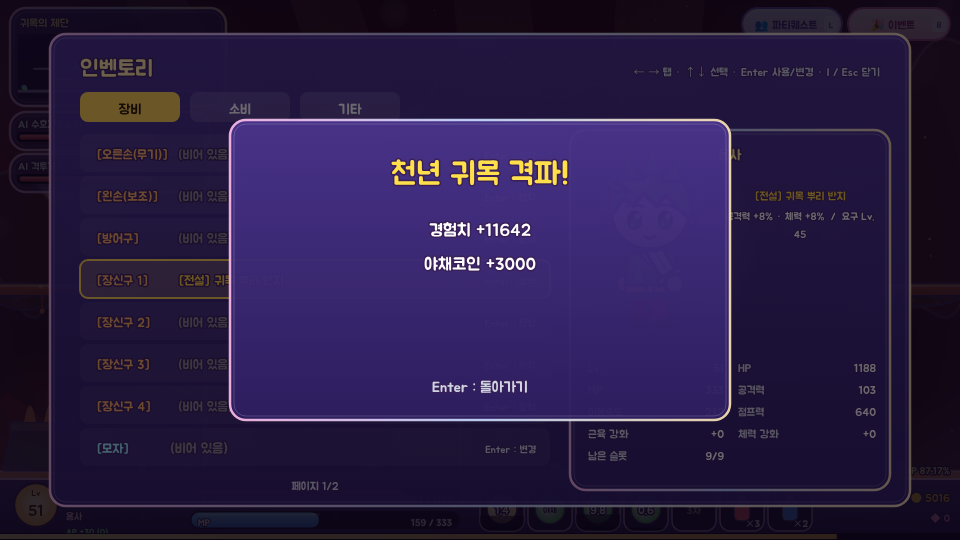
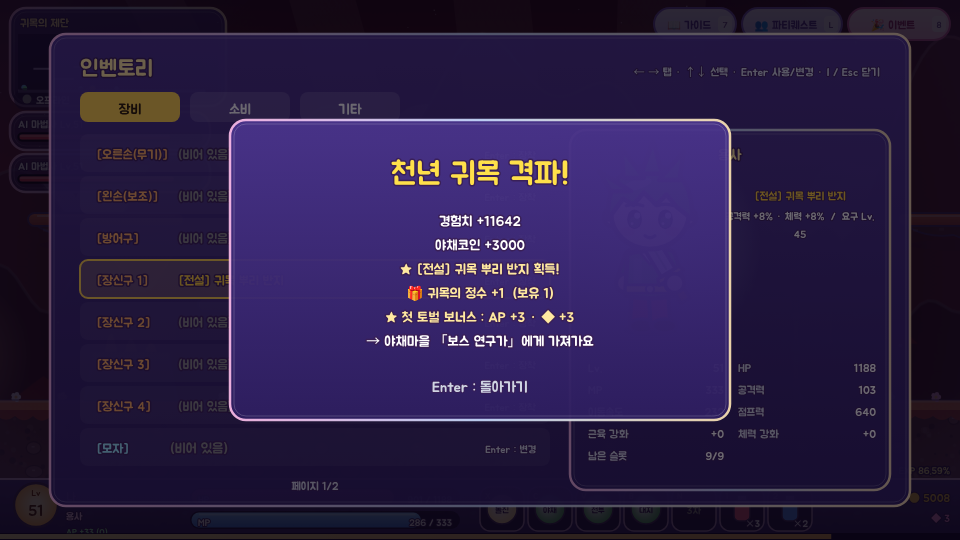
feat: 보스 전용 재료(확정)·첫 토벌 보너스·보스 연구가(반복 납품 의뢰/보스 장비 제작) · 레벨별 가이드(다음 목표·오늘 할 일·추천 사냥터 바로 이동) · 접속자 수 표시
Claude-Session: https://claude.ai/code/session_017L5bMY4jqJu3Rbzbdg4ZwK

Changed region(s): [[0.375, 0.3852, 0.625, 0.6519], [0.6562, 0.0, 0.7812, 0.0593], [0.3125, 0.9481, 0.4375, 0.9778]]

diff --git a/index.html b/index.html
@@ -2843,6 +2843,7 @@ function invRows(){
   r.push({kind:'misc',n:'귀안(鬼眼)',v:SAVE.inv.gwi||0,d:'귀목의 제단에 바쳐 천년 귀목을 소환한다. 귀문 수문장 퀘스트로만 얻을 수 있다.'});
   r.push({kind:'misc',n:'도깨비 금이빨',v:SAVE.inv.gtooth||0,d:'귀문 동굴 몬스터가 20% 확률로 떨어뜨린다. 8개로 귀안 1개.'});
   r.push({kind:'misc',n:'귀목의 정수',v:SAVE.inv.essence||0,d:'천년 귀목이 40% 확률로 남긴다. 최고급 투구 퀘스트 재료.'});
+  for(const k of BOSS_MATS)r.push({kind:'misc',n:ETC_NAME[k],v:SAVE.inv[k]||0,d:BOSS_MAT_DESC[k]});
   r.push({kind:'misc',n:'야채코인 ●',v:SAVE.coins,d:'상점 · 주문서 구매에 쓰는 기본 화폐.'});
   r.push({kind:'misc',n:'이벤트 코인 ◆',v:SAVE.ec,d:'출석 · 일일 올클리어 · PvP 승리로 획득. 이벤트 상점(캐시 치장)에서 사용.'});
   r.push({kind:'misc',n:'보유 치장템',v:Object.keys(ITEMS).filter(k=>SAVE.inv[k]).length+' / '+Object.keys(ITEMS).length,d:'착용은 장비 탭에서 슬롯을 선택(Enter).'});
@@ -3443,7 +3444,7 @@ function render(){
     else if(G.ui==='pause'){g.fillStyle='rgba(8,4,16,.6)';g.fillRect(0,0,W,H);txt(g,'메뉴 (게임은 계속 진행 중)',W/2,200,30,'#ffe9a0','center');['계속하기','저장하고 타이틀로'].forEach((s,i)=>{const y=240+i*50,sel=(G.psel||0)===i;g.fillStyle=sel?'rgba(255,220,120,.3)':'rgba(255,255,255,.08)';g.beginPath();g.roundRect(W/2-140,y,280,40,10);g.fill();txt(g,s,W/2,y+27,19,sel?'#ffe9a0':'#fff','center')})}
     if(S.pvp&&S.pvp.over){g.fillStyle='rgba(8,4,16,.55)';g.fillRect(0,0,W,H);const win=S.pvp.winner===0;txt(g,win?'승리!':'패배…',W/2,230,56,win?'#ffe04a':'#ff8a8a','center');txt(g,S.pvp.score[0]+' : '+S.pvp.score[1]+'   (전적 '+SAVE.duel.w+'승 '+SAVE.duel.l+'패)',W/2,276,22,'#fff','center');if(S.pvp.t>1.2)txt(g,'Enter : 마을로',W/2,320,20,'#cfd4e2','center',2)}
     if(G.state==='over'){g.fillStyle='rgba(20,0,10,.7)';g.fillRect(0,0,W,H);txt(g,'기절했다…',W/2,230,48,'#ff8a8a','center');txt(g,'Enter : 다시 도전      Esc : 마을로',W/2,290,20,'#fff','center')}
-    if(G.state==='clear'&&G.clear){g.fillStyle='rgba(8,4,16,.6)';g.fillRect(0,0,W,H);panel(g,W/2-250,120,500,300,.94);txt(g,G.clear.title,W/2,184,36,'#ffe04a','center');G.clear.lines.forEach((l,i)=>txt(g,l,W/2,236+i*34,20,'#fff','center'));txt(g,'Enter : 돌아가기',W/2,392,17,'#cfd4e2','center',2)}
+    if(G.state==='clear'&&G.clear){g.fillStyle='rgba(8,4,16,.6)';g.fillRect(0,0,W,H);panel(g,W/2-250,120,500,300,.94);txt(g,G.clear.title,W/2,184,36,'#ffe04a','center');G.clear.lines.forEach((l,i)=>{const n=G.clear.lines.length;txt(g,l,W/2,(n>4?226:236)+i*(n>4?24:34),n>4?16:20,l.startsWith('★')||l.startsWith('🎁')?'#ffe9a0':'#fff','center')});txt(g,'Enter : 돌아가기',W/2,392,17,'#cfd4e2','center',2)}
   }
   if(S&&G.state!=='title')drawBigBanner(g,G.t);
   if(G.fade){const a=G.fade.phase==='out'?Math.min(1,G.fade.t/.35):1-Math.min(1,G.fade.t/.4);g.fillStyle=`rgba(0,0,0,${a})`;g.fillRect(0,0,W,H)}
@@ -5565,7 +5566,7 @@ loadMap=function(id,end){if(!/^ev_/.test(id)){EVLOCAL=null;if(EVLIVE&&EVLIVE.are
 // 상단 버튼 터치/클릭
 cv.addEventListener('pointerdown',e=>{
   if(G.state!=='play'||G.ui||!S)return;const rc=cv.getBoundingClientRect(),x=(e.clientX-rc.left)*W/rc.width,y=(e.clientY-rc.top)*H/rc.height;
-  for(const b of HUDB){if(b.admin&&!ISADMIN)continue;if(x>=b.x-6&&x<=b.x+b.w+6&&y>=b.y-8&&y<=b.y+b.h+12){e.preventDefault();initAudio();b.id==='adm'?adminMenu():b.id==='pq'?pqMenu():eventMenu();return}}
+  for(const b of HUDB){if(b.admin&&!ISADMIN)continue;if(x>=b.x-6&&x<=b.x+b.w+6&&y>=b.y-8&&y<=b.y+b.h+12){e.preventDefault();initAudio();b.id==='adm'?adminMenu():b.id==='guide'?guideMenu2():b.id==='pq'?pqMenu():eventMenu();return}}
 });
 /* ============================================================
    ADMIN : 운영자(닉네임 '운영자') 전용 버튼 · 운영 패널 · 전체 공지
@@ -6171,4 +6172,137 @@ drawRoleTag=function(g,n){const r=roleOf(n);if(!r)return;const c=tagSprite(r,10,
 /* ---------- 캔버스 필터 완전 차단 : 안드로이드(갤럭시)에서 필터를 처음 쓸 때 몇 초씩 멈추는 문제 ---------- */
 {const P=CanvasRenderingContext2D.prototype,d=Object.getOwnPropertyDescriptor(P,'filter');
   if(d)Object.defineProperty(P,'filter',{configurable:true,get(){return'none'},set(){}});}
+/* ============================================================
+   BOSSLOOT : 보스 → 전용 재료(확정) → 보스 연구가의 토벌 의뢰/제작으로 이어지는 보상
+   밸런스 : 재료는 확정이라 꾸준히 잡으면 반드시 얻는다. 장비는 보스 레벨대에 맞춘 등급.
+   ============================================================ */
+Object.assign(ETC_NAME,{dhorn:'도깨비 뿔',foxtail:'구미호 꼬리털',yolk:'황금 노른자',stele:'비석 조각',fang:'거대 송곳니',festm:'축제 훈장'});
+const BOSS_MATS=['dhorn','foxtail','yolk','stele','fang','festm'];
+const BOSS_MAT_DESC={dhorn:'도깨비 대왕이 확정으로 2~3개 남긴다. 보스 연구가에게 가져가자.',foxtail:'구미호가 확정으로 2개 남긴다.',yolk:'킹 달걀 슬라임(파티퀘스트)이 확정으로 2개 남긴다.',
+  stele:'비석의 길 보스들이 2~3개 남긴다.',fang:'사냥터 필드 보스가 1~2개 남긴다.',festm:'축제 보스 레이드 참가 보상으로 2개.'};
+// 제작 장비
+Object.assign(GEAR,{
+  g_bl_horn:{slot:'acc',n:'도깨비 뿔 귀걸이',gr:2,atk:7,hp:6,req:{lv:15}},
+  g_bl_tail:{slot:'acc',n:'구미호 꼬리 목도리',gr:3,atk:10,spd:5,req:{lv:30}},
+  g_bl_yolk:{slot:'acc',n:'황금 노른자 펜던트',gr:3,atk:9,hp:12,req:{lv:25}},
+  g_bl_stele:{slot:'armor',n:'비석 수호 갑옷',gr:3,atk:8,hp:30,req:{lv:25}},
+  g_bl_fang:{slot:'acc',n:'거대 송곳니 부적',gr:3,atk:11,hp:8,req:{lv:35}},
+});
+// 보스별 확정 재료 · 의뢰(반복) · 제작
+const BOSS_LOOT={
+  dokkaebi:{mat:'dhorn',n:[2,3]},fox:{mat:'foxtail',n:[2,2]},eggking:{mat:'yolk',n:[2,2]},guimok:{mat:'essence',n:[1,1]},
+  sb1:{mat:'stele',n:[2,2]},sb2:{mat:'stele',n:[2,2]},sb3:{mat:'stele',n:[2,3]},sb4:{mat:'stele',n:[2,3]},sb5:{mat:'stele',n:[3,3]},sb6:{mat:'stele',n:[3,4]},
+};
+const BL_JOBS=[ // 반복 의뢰 : 재료 몇 개 → 경험치(현재 레벨 필요치의 %) + 코인 + ◆
+  {mat:'dhorn',n:3,pct:.05,coin:600,ec:1,t:'도깨비 뿔 3개 납품'},
+  {mat:'foxtail',n:3,pct:.06,coin:1200,ec:1,t:'구미호 꼬리털 3개 납품'},
+  {mat:'yolk',n:2,pct:.05,coin:1000,ec:1,t:'황금 노른자 2개 납품'},
+  {mat:'stele',n:4,pct:.06,coin:900,ec:1,t:'비석 조각 4개 납품'},
+  {mat:'fang',n:2,pct:.04,coin:800,ec:1,t:'거대 송곳니 2개 납품'},
+];
+const BL_CRAFT=[
+  {id:'g_bl_horn',need:{dhorn:5,vegbit:20}},
+  {id:'g_bl_yolk',need:{yolk:4,vegbit:30}},
+  {id:'g_bl_stele',need:{stele:10,vegbit:30}},
+  {id:'g_bl_tail',need:{foxtail:6,dhorn:3}},
+  {id:'g_bl_fang',need:{fang:6,vegbit:40}},
+  {id:'g_gm_ring',need:{essence:3,dhorn:5}},
+  {id:'g_rd_star',need:{festm:8}},
+];
+function addMat(k,n){SAVE.inv[k]=(SAVE.inv[k]||0)+n;qev('collect',{item:k})}
+const _bossFinishL=bossFinish;
+bossFinish=function(b){
+  _bossFinishL(b);
+  const bid=b.sid||b.id,L=BOSS_LOOT[bid];if(!L||b.raid)return;
+  const n=L.n[0]+((Math.random()*(L.n[1]-L.n[0]+1))|0);addMat(L.mat,n);
+  const first=!SAVE.flags['bfirst_'+bid];let fl=null;
+  if(first){SAVE.flags['bfirst_'+bid]=1;SAVE.apFree=(SAVE.apFree||0)+3;SAVE.ec=(SAVE.ec||0)+3;fl='★ 첫 토벌 보너스 : AP +3 · ◆ +3'}
+  saveGame();
+  if(G.clear){G.clear.lines=G.clear.lines.slice(0,4).concat(['🎁 '+ETC_NAME[L.mat]+' +'+n+'  (보유 '+SAVE.inv[L.mat]+')'],fl?[fl]:[],['→ 야채마을 「보스 연구가」에게 가져가요'])}
+};
+// 필드 보스 · 레이드
+{const _km=killMob;killMob=function(m){const fb=m.fb&&!m.dead;_km(m);if(fb&&m.dead){const n=1+(Math.random()<.4?1:0);addMat('fang',n);ftext(m.x,m.y-120,ETC_NAME.fang+' +'+n,'#ffd34a',16,1.4)}}}
+{const _bf=bossFinish;bossFinish=function(b){const raid=b.raid;_bf(b);if(raid){addMat('festm',2);saveGame();if(G.dlg)G.dlg.text=G.dlg.text.replace('참가 보상:','참가 보상: 축제 훈장 ×2 ·')}}}
+
+/* ---------- 보스 연구가 (야채마을) ---------- */
+NPC_LOOK_X.bossdoc={job:'mage',eq:{hat:'hat_gat',outfit:'out_vest'},n:'보스 연구가',fid:9};
+ROLE.bossdoc='보스 재료 · 제작';
+{const _tw=MAPS.town;MAPS.town=()=>{const L=_tw();L.npcs.push({id:'bossdoc',name:'보스 연구가 우엉',x:3560,gy:470,look:'bossdoc'});return L}}
+const matTxt=need=>Object.entries(need).map(([k,v])=>(ETC_NAME[k]||k)+' '+(SAVE.inv[k]||0)+'/'+v).join(' · ');
+const hasNeed=need=>Object.entries(need).every(([k,v])=>(SAVE.inv[k]||0)>=v);
+function bossDoc(n){
+  const opts=[];
+  opts.push({t:'📜 토벌 의뢰 (반복 납품)',fn:()=>{
+    openDialog(n.name,'보스 재료를 가져오면 연구비를 줄게! 몇 번이든 좋아.',BL_JOBS.map(j=>({t:(SAVE.inv[j.mat]>=j.n?'[완료 가능] ':'')+j.t+'  ('+(SAVE.inv[j.mat]||0)+'/'+j.n+') → 경험치 '+Math.round(j.pct*100)+'% · '+j.coin+'● · ◆'+j.ec,
+      fn:()=>{if((SAVE.inv[j.mat]||0)<j.n){G.toast('재료가 부족해요');return}SAVE.inv[j.mat]-=j.n;const ex=Math.round(need(SAVE.lvl)*j.pct);gainExp(ex);addCoins(j.coin);SAVE.ec=(SAVE.ec||0)+j.ec;saveGame();sfx('levelup');
+        openDialog(n.name,'고마워! 연구에 큰 도움이 됐어.\n경험치 +'+ex+' · '+j.coin+'● · ◆'+j.ec,[{t:'더 납품하기',fn:()=>bossDoc(n)},{t:'닫기',fn:closeUI}])}})).concat([{t:'뒤로',fn:()=>bossDoc(n)}]))}});
+  opts.push({t:'⚒ 보스 장비 제작',fn:()=>{
+    openDialog(n.name,'재료를 모아오면 보스의 힘이 깃든 장비를 만들어 줄게.',BL_CRAFT.map(c=>{const d=GEAR[c.id],own=SAVE.ginv[c.id];return{t:(own?'[보유] ':hasNeed(c.need)?'[제작 가능] ':'')+'['+GRADE[d.gr]+'] '+d.n+' — '+matTxt(c.need),
+      fn:()=>{if(own){G.toast('이미 가지고 있어요');return}if(!hasNeed(c.need)){G.toast('재료가 부족해요');return}for(const[k,v]of Object.entries(c.need))SAVE.inv[k]-=v;SAVE.ginv[c.id]=1;saveGame();sfx('levelup');
+        openDialog(n.name,'완성! ['+GRADE[d.gr]+'] '+d.n+'\n'+gearDesc(c.id)+'\n\n인벤토리(I) → 장비에서 착용해요.',[{t:'뒤로',fn:()=>bossDoc(n)},{t:'닫기',fn:closeUI}])}}}).concat([{t:'뒤로',fn:()=>bossDoc(n)}]))}});
+  opts.push({t:'어떤 보스가 무엇을 주나요?',fn:()=>openDialog(n.name,'· 도깨비 대왕 → 도깨비 뿔 2~3\n· 구미호 → 구미호 꼬리털 2\n· 킹 달걀 슬라임(파티퀘스트) → 황금 노른자 2\n· 천년 귀목 → 귀목의 정수 1 (+기존 40%)\n· 비석의 길 보스 → 비석 조각 2~4\n· 사냥터 필드 보스 → 거대 송곳니 1~2\n· 축제 보스 레이드 → 축제 훈장 2\n\n보스마다 처음 잡으면 AP +3 · ◆3 보너스!',[{t:'뒤로',fn:()=>bossDoc(n)}])});
+  opts.push({t:'닫기',fn:closeUI});
+  openDialog(n.name,'보스들이 남긴 재료를 연구하는 우엉이야.\n재료는 보스를 잡으면 반드시 떨어지니, 꾸준히 모아오면 좋은 장비를 만들어 줄게!',opts);
+}
+{const _t=talkNPC;talkNPC=function(n){if(n.id==='bossdoc'){if(!SAVE.talked.bossdoc){SAVE.talked.bossdoc=1;qev('talk',{})}return bossDoc(n)}return _t(n)}}
+/* ============================================================
+   GUIDE : 레벨별 가이드(추천 사냥터 바로 이동 · 다음 목표 · 오늘 할 일) · 접속자 수 표시
+   ============================================================ */
+function allHunts(){
+  const a=HUNTS.map(h=>({id:h.id,n:h.name,min:h.min,where:'야채마을 사냥터'}));
+  for(const d of JTOWNS)for(const h of d.hunts)a.push({id:h.id,n:h.name,min:h.min,where:d.name+(d.job===SAVE.job?' ⭐':'')});
+  for(const t of TEMPLES)a.push({id:t.id,n:t.name,min:t.min,where:'별의 신전'});
+  return a;
+}
+function recHunts(){
+  const lv=SAVE.lvl,mine=JT_OF(SAVE.job);
+  return allHunts().filter(h=>h.min<=lv&&lv<=h.min+20)
+    .sort((a,b)=>(b.min-a.min)+((b.where.includes('⭐')?6:0)-(a.where.includes('⭐')?6:0))).slice(0,5);
+}
+const guideCost=h=>SAVE.lvl<20?0:Math.round(60+h.min*5);
+function nextGoals(){
+  const lv=SAVE.lvl,t=SAVE.tier,g=[],mine=JT_OF(SAVE.job);
+  if(t<1)g.push(lv>=10?'✅ 지금 1차 전직 가능! → 「'+mine.name+'」 교관':'Lv.10 : 1차 전직 (「'+mine.name+'」)');
+  else if(t<2)g.push(lv>=30?'✅ 지금 2차 전직 가능! → 도깨비 숲 꼭대기 스승 (슈퍼점프 습득)':'Lv.30 : 2차 전직 (도깨비 숲 꼭대기) · 슈퍼점프');
+  else if(t<3)g.push(lv>=70?'✅ 지금 3차 전직 가능! → 하늘길 끝 스승':'Lv.70 : 3차 전직 (하늘길 끝)');
+  if(lv>=6&&!SAVE.cleared.eggking)g.push('👥 파티퀘스트 「달걀 슬라임 소굴」 (Lv.6+) — 황금 노른자');
+  if(lv>=12&&!SAVE.cleared.dokkaebi)g.push('👹 보스 「도깨비 대왕」 — 도깨비 숲 끝 · 첫 토벌 AP+3');
+  if(lv>=28&&!SAVE.cleared.fox)g.push('🦊 보스 「구미호」 — 하늘길 끝 달빛 신당');
+  if(lv>=15)g.push('🪨 비석의 길 스토리 던전 — 비석 조각 · 보스 장비 제작');
+  if(lv>=40&&!SAVE.cleared.guimok)g.push('🌋 귀문 동굴 → 천년 귀목 (파티 추천)');
+  if(lv>=80)g.push('🏛 별의 신전 (Lv.80~90) — 최고 레벨 사냥터');
+  return g.slice(0,3);
+}
+function todayList(){
+  const r=[];const dq=Object.keys(QUESTS).filter(k=>/^d\d/.test(k));
+  const done=dq.filter(k=>qst(k).s==='done').length;r.push('📅 일일 퀘스트 '+done+'/'+dq.length);
+  r.push(SAVE.att&&SAVE.att.last===dayNum()?'✅ 출석 체크 완료':'❗ 출석 체크 안 함 (야채마을 출석부 요정)');
+  r.push('🐉 20:00 보스 레이드 · 🏛 20:30 쟁탈전');
+  const ready=BL_JOBS.filter(j=>(SAVE.inv[j.mat]||0)>=j.n).length;if(ready)r.push('🎁 보스 연구가에게 납품 가능 '+ready+'건');
+  if(SAVE.apFree>0)r.push('💪 남은 AP '+SAVE.apFree+' (AP 버튼 / O키)');
+  return r;
+}
+function guideMenu2(){
+  sfx('sel');const j=JOB[SAVE.job],rec=recHunts(),opts=[];
+  for(const h of rec){const c=guideCost(h);opts.push({t:'🚕 '+(h.where.includes('⭐')?'⭐':'')+h.n+'  Lv.'+h.min+'~  '+(c?c+'●':'무료'),fn:()=>{
+    if(S.L.pq||(S.boss&&!S.boss.dead)||S.dg||S.L.raid||S.L.arenaEv){G.toast('던전 안에서는 이동할 수 없어요');return}
+    if(SAVE.coins<c){G.toast('코인이 부족해요 ('+c+'●)');return}SAVE.coins-=c;closeUI();sfx('portal');goMap(h.id);G.toast(h.n+'(으)로 이동!')}})}
+  opts.push({t:'⭐ 내 직업 마을 「'+JT_OF(SAVE.job).name+'」 (무료)',fn:()=>{closeUI();sfx('portal');goMap(JT_OF(SAVE.job).id)}});
+  opts.push({t:'닫기',fn:closeUI});
+  openDialog('📖 Lv.'+SAVE.lvl+' '+jline(j,SAVE.tier)+' 가이드',
+    '▶ 다음 목표\n'+nextGoals().map(s=>'  '+s).join('\n')+'\n\n▶ 오늘 할 일\n  '+todayList().slice(0,2).join('   ')+'\n  '+todayList().slice(2).join('   ')+'\n\n▶ 오른쪽에서 추천 사냥터로 바로 이동'+(SAVE.lvl<20?' (Lv.20까지 무료)':''),opts);
+}
+// 상단 버튼 : 가이드 추가 (운영 버튼은 왼쪽으로)
+{const a=HUDB.find(b=>b.id==='adm');if(a)a.x=W-394;HUDB.push({id:'guide',x:W-306,y:8,w:82,h:32,l:'📖 가이드',k:'7'})}
+{const _rs=respawnStep;respawnStep=function(dt){_rs(dt);if(G.state==='play'&&!G.ui&&!G.chatOpen&&pressed.Digit7)guideMenu2()}}
+// 레벨업 할 때 중요한 레벨이면 안내
+{const _ge=gainExp;gainExp=function(n,mob){const lv=SAVE.lvl;const r=_ge(n,mob);if(SAVE.lvl>lv&&[6,10,12,15,20,30,40,70,80].some(v=>lv<v&&SAVE.lvl>=v))setTimeout(()=>G.toast('📖 새 목표가 생겼어요! 오른쪽 위 [가이드] (7)'),1200);return r}}
+// 접속자 수 (미니맵 아래)
+function drawOnline(g,t){
+  if(!S||!PARTY[0])return;const on=typeof wsOK==='function'&&wsOK(),s=on?'접속 '+Math.max(1,ONLINE_N)+'명':'오프라인';
+  g.save();g.beginPath();g.roundRect(14,88,on?96:80,22,11);g.fillStyle='rgba(40,24,70,.62)';g.fill();
+  circ(g,27,99,4.5,on?'#5ae07a':'#999');if(on){g.globalAlpha=.4+.3*Math.sin(t*3);circ(g,27,99,8,'rgba(90,224,122,.5)');g.globalAlpha=1}
+  txt(g,s,36,104,12,'#fff','left',0);g.restore();
+}
+{const _dh=drawHUD;drawHUD=function(g,t){_dh(g,t);drawOnline(g,t)}}
 </script></body></html>

diff --git a/parts/28_bossloot.js b/parts/28_bossloot.js
@@ -1,0 +1,73 @@
+/* ============================================================
+   BOSSLOOT : 보스 → 전용 재료(확정) → 보스 연구가의 토벌 의뢰/제작으로 이어지는 보상
+   밸런스 : 재료는 확정이라 꾸준히 잡으면 반드시 얻는다. 장비는 보스 레벨대에 맞춘 등급.
+   ============================================================ */
+Object.assign(ETC_NAME,{dhorn:'도깨비 뿔',foxtail:'구미호 꼬리털',yolk:'황금 노른자',stele:'비석 조각',fang:'거대 송곳니',festm:'축제 훈장'});
+const BOSS_MATS=['dhorn','foxtail','yolk','stele','fang','festm'];
+const BOSS_MAT_DESC={dhorn:'도깨비 대왕이 확정으로 2~3개 남긴다. 보스 연구가에게 가져가자.',foxtail:'구미호가 확정으로 2개 남긴다.',yolk:'킹 달걀 슬라임(파티퀘스트)이 확정으로 2개 남긴다.',
+  stele:'비석의 길 보스들이 2~3개 남긴다.',fang:'사냥터 필드 보스가 1~2개 남긴다.',festm:'축제 보스 레이드 참가 보상으로 2개.'};
+// 제작 장비
+Object.assign(GEAR,{
+  g_bl_horn:{slot:'acc',n:'도깨비 뿔 귀걸이',gr:2,atk:7,hp:6,req:{lv:15}},
+  g_bl_tail:{slot:'acc',n:'구미호 꼬리 목도리',gr:3,atk:10,spd:5,req:{lv:30}},
+  g_bl_yolk:{slot:'acc',n:'황금 노른자 펜던트',gr:3,atk:9,hp:12,req:{lv:25}},
+  g_bl_stele:{slot:'armor',n:'비석 수호 갑옷',gr:3,atk:8,hp:30,req:{lv:25}},
+  g_bl_fang:{slot:'acc',n:'거대 송곳니 부적',gr:3,atk:11,hp:8,req:{lv:35}},
+});
+// 보스별 확정 재료 · 의뢰(반복) · 제작
+const BOSS_LOOT={
+  dokkaebi:{mat:'dhorn',n:[2,3]},fox:{mat:'foxtail',n:[2,2]},eggking:{mat:'yolk',n:[2,2]},guimok:{mat:'essence',n:[1,1]},
+  sb1:{mat:'stele',n:[2,2]},sb2:{mat:'stele',n:[2,2]},sb3:{mat:'stele',n:[2,3]},sb4:{mat:'stele',n:[2,3]},sb5:{mat:'stele',n:[3,3]},sb6:{mat:'stele',n:[3,4]},
+};
+const BL_JOBS=[ // 반복 의뢰 : 재료 몇 개 → 경험치(현재 레벨 필요치의 %) + 코인 + ◆
+  {mat:'dhorn',n:3,pct:.05,coin:600,ec:1,t:'도깨비 뿔 3개 납품'},
+  {mat:'foxtail',n:3,pct:.06,coin:1200,ec:1,t:'구미호 꼬리털 3개 납품'},
+  {mat:'yolk',n:2,pct:.05,coin:1000,ec:1,t:'황금 노른자 2개 납품'},
+  {mat:'stele',n:4,pct:.06,coin:900,ec:1,t:'비석 조각 4개 납품'},
+  {mat:'fang',n:2,pct:.04,coin:800,ec:1,t:'거대 송곳니 2개 납품'},
+];
+const BL_CRAFT=[
+  {id:'g_bl_horn',need:{dhorn:5,vegbit:20}},
+  {id:'g_bl_yolk',need:{yolk:4,vegbit:30}},
+  {id:'g_bl_stele',need:{stele:10,vegbit:30}},
+  {id:'g_bl_tail',need:{foxtail:6,dhorn:3}},
+  {id:'g_bl_fang',need:{fang:6,vegbit:40}},
+  {id:'g_gm_ring',need:{essence:3,dhorn:5}},
+  {id:'g_rd_star',need:{festm:8}},
+];
+function addMat(k,n){SAVE.inv[k]=(SAVE.inv[k]||0)+n;qev('collect',{item:k})}
+const _bossFinishL=bossFinish;
+bossFinish=function(b){
+  _bossFinishL(b);
+  const bid=b.sid||b.id,L=BOSS_LOOT[bid];if(!L||b.raid)return;
+  const n=L.n[0]+((Math.random()*(L.n[1]-L.n[0]+1))|0);addMat(L.mat,n);
+  const first=!SAVE.flags['bfirst_'+bid];let fl=null;
+  if(first){SAVE.flags['bfirst_'+bid]=1;SAVE.apFree=(SAVE.apFree||0)+3;SAVE.ec=(SAVE.ec||0)+3;fl='★ 첫 토벌 보너스 : AP +3 · ◆ +3'}
+  saveGame();
+  if(G.clear){G.clear.lines=G.clear.lines.slice(0,4).concat(['🎁 '+ETC_NAME[L.mat]+' +'+n+'  (보유 '+SAVE.inv[L.mat]+')'],fl?[fl]:[],['→ 야채마을 「보스 연구가」에게 가져가요'])}
+};
+// 필드 보스 · 레이드
+{const _km=killMob;killMob=function(m){const fb=m.fb&&!m.dead;_km(m);if(fb&&m.dead){const n=1+(Math.random()<.4?1:0);addMat('fang',n);ftext(m.x,m.y-120,ETC_NAME.fang+' +'+n,'#ffd34a',16,1.4)}}}
+{const _bf=bossFinish;bossFinish=function(b){const raid=b.raid;_bf(b);if(raid){addMat('festm',2);saveGame();if(G.dlg)G.dlg.text=G.dlg.text.replace('참가 보상:','참가 보상: 축제 훈장 ×2 ·')}}}
+
+/* ---------- 보스 연구가 (야채마을) ---------- */
+NPC_LOOK_X.bossdoc={job:'mage',eq:{hat:'hat_gat',outfit:'out_vest'},n:'보스 연구가',fid:9};
+ROLE.bossdoc='보스 재료 · 제작';
+{const _tw=MAPS.town;MAPS.town=()=>{const L=_tw();L.npcs.push({id:'bossdoc',name:'보스 연구가 우엉',x:3560,gy:470,look:'bossdoc'});return L}}
+const matTxt=need=>Object.entries(need).map(([k,v])=>(ETC_NAME[k]||k)+' '+(SAVE.inv[k]||0)+'/'+v).join(' · ');
+const hasNeed=need=>Object.entries(need).every(([k,v])=>(SAVE.inv[k]||0)>=v);
+function bossDoc(n){
+  const opts=[];
+  opts.push({t:'📜 토벌 의뢰 (반복 납품)',fn:()=>{
+    openDialog(n.name,'보스 재료를 가져오면 연구비를 줄게! 몇 번이든 좋아.',BL_JOBS.map(j=>({t:(SAVE.inv[j.mat]>=j.n?'[완료 가능] ':'')+j.t+'  ('+(SAVE.inv[j.mat]||0)+'/'+j.n+') → 경험치 '+Math.round(j.pct*100)+'% · '+j.coin+'● · ◆'+j.ec,
+      fn:()=>{if((SAVE.inv[j.mat]||0)<j.n){G.toast('재료가 부족해요');return}SAVE.inv[j.mat]-=j.n;const ex=Math.round(need(SAVE.lvl)*j.pct);gainExp(ex);addCoins(j.coin);SAVE.ec=(SAVE.ec||0)+j.ec;saveGame();sfx('levelup');
+        openDialog(n.name,'고마워! 연구에 큰 도움이 됐어.\n경험치 +'+ex+' · '+j.coin+'● · ◆'+j.ec,[{t:'더 납품하기',fn:()=>bossDoc(n)},{t:'닫기',fn:closeUI}])}})).concat([{t:'뒤로',fn:()=>bossDoc(n)}]))}});
+  opts.push({t:'⚒ 보스 장비 제작',fn:()=>{
+    openDialog(n.name,'재료를 모아오면 보스의 힘이 깃든 장비를 만들어 줄게.',BL_CRAFT.map(c=>{const d=GEAR[c.id],own=SAVE.ginv[c.id];return{t:(own?'[보유] ':hasNeed(c.need)?'[제작 가능] ':'')+'['+GRADE[d.gr]+'] '+d.n+' — '+matTxt(c.need),
+      fn:()=>{if(own){G.toast('이미 가지고 있어요');return}if(!hasNeed(c.need)){G.toast('재료가 부족해요');return}for(const[k,v]of Object.entries(c.need))SAVE.inv[k]-=v;SAVE.ginv[c.id]=1;saveGame();sfx('levelup');
+        openDialog(n.name,'완성! ['+GRADE[d.gr]+'] '+d.n+'\n'+gearDesc(c.id)+'\n\n인벤토리(I) → 장비에서 착용해요.',[{t:'뒤로',fn:()=>bossDoc(n)},{t:'닫기',fn:closeUI}])}}}).concat([{t:'뒤로',fn:()=>bossDoc(n)}]))}});
+  opts.push({t:'어떤 보스가 무엇을 주나요?',fn:()=>openDialog(n.name,'· 도깨비 대왕 → 도깨비 뿔 2~3\n· 구미호 → 구미호 꼬리털 2\n· 킹 달걀 슬라임(파티퀘스트) → 황금 노른자 2\n· 천년 귀목 → 귀목의 정수 1 (+기존 40%)\n· 비석의 길 보스 → 비석 조각 2~4\n· 사냥터 필드 보스 → 거대 송곳니 1~2\n· 축제 보스 레이드 → 축제 훈장 2\n\n보스마다 처음 잡으면 AP +3 · ◆3 보너스!',[{t:'뒤로',fn:()=>bossDoc(n)}])});
+  opts.push({t:'닫기',fn:closeUI});
+  openDialog(n.name,'보스들이 남긴 재료를 연구하는 우엉이야.\n재료는 보스를 잡으면 반드시 떨어지니, 꾸준히 모아오면 좋은 장비를 만들어 줄게!',opts);
+}
+{const _t=talkNPC;talkNPC=function(n){if(n.id==='bossdoc'){if(!SAVE.talked.bossdoc){SAVE.talked.bossdoc=1;qev('talk',{})}return bossDoc(n)}return _t(n)}}

diff --git a/parts/29_guide.js b/parts/29_guide.js
@@ -1,0 +1,60 @@
+/* ============================================================
+   GUIDE : 레벨별 가이드(추천 사냥터 바로 이동 · 다음 목표 · 오늘 할 일) · 접속자 수 표시
+   ============================================================ */
+function allHunts(){
+  const a=HUNTS.map(h=>({id:h.id,n:h.name,min:h.min,where:'야채마을 사냥터'}));
+  for(const d of JTOWNS)for(const h of d.hunts)a.push({id:h.id,n:h.name,min:h.min,where:d.name+(d.job===SAVE.job?' ⭐':'')});
+  for(const t of TEMPLES)a.push({id:t.id,n:t.name,min:t.min,where:'별의 신전'});
+  return a;
+}
+function recHunts(){
+  const lv=SAVE.lvl,mine=JT_OF(SAVE.job);
+  return allHunts().filter(h=>h.min<=lv&&lv<=h.min+20)
+    .sort((a,b)=>(b.min-a.min)+((b.where.includes('⭐')?6:0)-(a.where.includes('⭐')?6:0))).slice(0,5);
+}
+const guideCost=h=>SAVE.lvl<20?0:Math.round(60+h.min*5);
+function nextGoals(){
+  const lv=SAVE.lvl,t=SAVE.tier,g=[],mine=JT_OF(SAVE.job);
+  if(t<1)g.push(lv>=10?'✅ 지금 1차 전직 가능! → 「'+mine.name+'」 교관':'Lv.10 : 1차 전직 (「'+mine.name+'」)');
+  else if(t<2)g.push(lv>=30?'✅ 지금 2차 전직 가능! → 도깨비 숲 꼭대기 스승 (슈퍼점프 습득)':'Lv.30 : 2차 전직 (도깨비 숲 꼭대기) · 슈퍼점프');
+  else if(t<3)g.push(lv>=70?'✅ 지금 3차 전직 가능! → 하늘길 끝 스승':'Lv.70 : 3차 전직 (하늘길 끝)');
+  if(lv>=6&&!SAVE.cleared.eggking)g.push('👥 파티퀘스트 「달걀 슬라임 소굴」 (Lv.6+) — 황금 노른자');
+  if(lv>=12&&!SAVE.cleared.dokkaebi)g.push('👹 보스 「도깨비 대왕」 — 도깨비 숲 끝 · 첫 토벌 AP+3');
+  if(lv>=28&&!SAVE.cleared.fox)g.push('🦊 보스 「구미호」 — 하늘길 끝 달빛 신당');
+  if(lv>=15)g.push('🪨 비석의 길 스토리 던전 — 비석 조각 · 보스 장비 제작');
+  if(lv>=40&&!SAVE.cleared.guimok)g.push('🌋 귀문 동굴 → 천년 귀목 (파티 추천)');
+  if(lv>=80)g.push('🏛 별의 신전 (Lv.80~90) — 최고 레벨 사냥터');
+  return g.slice(0,3);
+}
+function todayList(){
+  const r=[];const dq=Object.keys(QUESTS).filter(k=>/^d\d/.test(k));
+  const done=dq.filter(k=>qst(k).s==='done').length;r.push('📅 일일 퀘스트 '+done+'/'+dq.length);
+  r.push(SAVE.att&&SAVE.att.last===dayNum()?'✅ 출석 체크 완료':'❗ 출석 체크 안 함 (야채마을 출석부 요정)');
+  r.push('🐉 20:00 보스 레이드 · 🏛 20:30 쟁탈전');
+  const ready=BL_JOBS.filter(j=>(SAVE.inv[j.mat]||0)>=j.n).length;if(ready)r.push('🎁 보스 연구가에게 납품 가능 '+ready+'건');
+  if(SAVE.apFree>0)r.push('💪 남은 AP '+SAVE.apFree+' (AP 버튼 / O키)');
+  return r;
+}
+function guideMenu2(){
+  sfx('sel');const j=JOB[SAVE.job],rec=recHunts(),opts=[];
+  for(const h of rec){const c=guideCost(h);opts.push({t:'🚕 '+(h.where.includes('⭐')?'⭐':'')+h.n+'  Lv.'+h.min+'~  '+(c?c+'●':'무료'),fn:()=>{
+    if(S.L.pq||(S.boss&&!S.boss.dead)||S.dg||S.L.raid||S.L.arenaEv){G.toast('던전 안에서는 이동할 수 없어요');return}
+    if(SAVE.coins<c){G.toast('코인이 부족해요 ('+c+'●)');return}SAVE.coins-=c;closeUI();sfx('portal');goMap(h.id);G.toast(h.n+'(으)로 이동!')}})}
+  opts.push({t:'⭐ 내 직업 마을 「'+JT_OF(SAVE.job).name+'」 (무료)',fn:()=>{closeUI();sfx('portal');goMap(JT_OF(SAVE.job).id)}});
+  opts.push({t:'닫기',fn:closeUI});
+  openDialog('📖 Lv.'+SAVE.lvl+' '+jline(j,SAVE.tier)+' 가이드',
+    '▶ 다음 목표\n'+nextGoals().map(s=>'  '+s).join('\n')+'\n\n▶ 오늘 할 일\n  '+todayList().slice(0,2).join('   ')+'\n  '+todayList().slice(2).join('   ')+'\n\n▶ 오른쪽에서 추천 사냥터로 바로 이동'+(SAVE.lvl<20?' (Lv.20까지 무료)':''),opts);
+}
+// 상단 버튼 : 가이드 추가 (운영 버튼은 왼쪽으로)
+{const a=HUDB.find(b=>b.id==='adm');if(a)a.x=W-394;HUDB.push({id:'guide',x:W-306,y:8,w:82,h:32,l:'📖 가이드',k:'7'})}
+{const _rs=respawnStep;respawnStep=function(dt){_rs(dt);if(G.state==='play'&&!G.ui&&!G.chatOpen&&pressed.Digit7)guideMenu2()}}
+// 레벨업 할 때 중요한 레벨이면 안내
+{const _ge=gainExp;gainExp=function(n,mob){const lv=SAVE.lvl;const r=_ge(n,mob);if(SAVE.lvl>lv&&[6,10,12,15,20,30,40,70,80].some(v=>lv<v&&SAVE.lvl>=v))setTimeout(()=>G.toast('📖 새 목표가 생겼어요! 오른쪽 위 [가이드] (7)'),1200);return r}}
+// 접속자 수 (미니맵 아래)
+function drawOnline(g,t){
+  if(!S||!PARTY[0])return;const on=typeof wsOK==='function'&&wsOK(),s=on?'접속 '+Math.max(1,ONLINE_N)+'명':'오프라인';
+  g.save();g.beginPath();g.roundRect(14,88,on?96:80,22,11);g.fillStyle='rgba(40,24,70,.62)';g.fill();
+  circ(g,27,99,4.5,on?'#5ae07a':'#999');if(on){g.globalAlpha=.4+.3*Math.sin(t*3);circ(g,27,99,8,'rgba(90,224,122,.5)');g.globalAlpha=1}
+  txt(g,s,36,104,12,'#fff','left',0);g.restore();
+}
+{const _dh=drawHUD;drawHUD=function(g,t){_dh(g,t);drawOnline(g,t)}}

diff --git a/parts/09_main.js b/parts/09_main.js
@@ -392,7 +392,7 @@ function render(){
     else if(G.ui==='pause'){g.fillStyle='rgba(8,4,16,.6)';g.fillRect(0,0,W,H);txt(g,'메뉴 (게임은 계속 진행 중)',W/2,200,30,'#ffe9a0','center');['계속하기','저장하고 타이틀로'].forEach((s,i)=>{const y=240+i*50,sel=(G.psel||0)===i;g.fillStyle=sel?'rgba(255,220,120,.3)':'rgba(255,255,255,.08)';g.beginPath();g.roundRect(W/2-140,y,280,40,10);g.fill();txt(g,s,W/2,y+27,19,sel?'#ffe9a0':'#fff','center')})}
     if(S.pvp&&S.pvp.over){g.fillStyle='rgba(8,4,16,.55)';g.fillRect(0,0,W,H);const win=S.pvp.winner===0;txt(g,win?'승리!':'패배…',W/2,230,56,win?'#ffe04a':'#ff8a8a','center');txt(g,S.pvp.score[0]+' : '+S.pvp.score[1]+'   (전적 '+SAVE.duel.w+'승 '+SAVE.duel.l+'패)',W/2,276,22,'#fff','center');if(S.pvp.t>1.2)txt(g,'Enter : 마을로',W/2,320,20,'#cfd4e2','center',2)}
     if(G.state==='over'){g.fillStyle='rgba(20,0,10,.7)';g.fillRect(0,0,W,H);txt(g,'기절했다…',W/2,230,48,'#ff8a8a','center');txt(g,'Enter : 다시 도전      Esc : 마을로',W/2,290,20,'#fff','center')}
-    if(G.state==='clear'&&G.clear){g.fillStyle='rgba(8,4,16,.6)';g.fillRect(0,0,W,H);panel(g,W/2-250,120,500,300,.94);txt(g,G.clear.title,W/2,184,36,'#ffe04a','center');G.clear.lines.forEach((l,i)=>txt(g,l,W/2,236+i*34,20,'#fff','center'));txt(g,'Enter : 돌아가기',W/2,392,17,'#cfd4e2','center',2)}
+    if(G.state==='clear'&&G.clear){g.fillStyle='rgba(8,4,16,.6)';g.fillRect(0,0,W,H);panel(g,W/2-250,120,500,300,.94);txt(g,G.clear.title,W/2,184,36,'#ffe04a','center');G.clear.lines.forEach((l,i)=>{const n=G.clear.lines.length;txt(g,l,W/2,(n>4?226:236)+i*(n>4?24:34),n>4?16:20,l.startsWith('★')||l.startsWith('🎁')?'#ffe9a0':'#fff','center')});txt(g,'Enter : 돌아가기',W/2,392,17,'#cfd4e2','center',2)}
   }
   if(S&&G.state!=='title')drawBigBanner(g,G.t);
   if(G.fade){const a=G.fade.phase==='out'?Math.min(1,G.fade.t/.35):1-Math.min(1,G.fade.t/.4);g.fillStyle=`rgba(0,0,0,${a})`;g.fillRect(0,0,W,H)}

diff --git a/parts/08_ui.js b/parts/08_ui.js
@@ -379,6 +379,7 @@ function invRows(){
   r.push({kind:'misc',n:'귀안(鬼眼)',v:SAVE.inv.gwi||0,d:'귀목의 제단에 바쳐 천년 귀목을 소환한다. 귀문 수문장 퀘스트로만 얻을 수 있다.'});
   r.push({kind:'misc',n:'도깨비 금이빨',v:SAVE.inv.gtooth||0,d:'귀문 동굴 몬스터가 20% 확률로 떨어뜨린다. 8개로 귀안 1개.'});
   r.push({kind:'misc',n:'귀목의 정수',v:SAVE.inv.essence||0,d:'천년 귀목이 40% 확률로 남긴다. 최고급 투구 퀘스트 재료.'});
+  for(const k of BOSS_MATS)r.push({kind:'misc',n:ETC_NAME[k],v:SAVE.inv[k]||0,d:BOSS_MAT_DESC[k]});
   r.push({kind:'misc',n:'야채코인 ●',v:SAVE.coins,d:'상점 · 주문서 구매에 쓰는 기본 화폐.'});
   r.push({kind:'misc',n:'이벤트 코인 ◆',v:SAVE.ec,d:'출석 · 일일 올클리어 · PvP 승리로 획득. 이벤트 상점(캐시 치장)에서 사용.'});
   r.push({kind:'misc',n:'보유 치장템',v:Object.keys(ITEMS).filter(k=>SAVE.inv[k]).length+' / '+Object.keys(ITEMS).length,d:'착용은 장비 탭에서 슬롯을 선택(Enter).'});

diff --git a/parts/20_events.js b/parts/20_events.js
@@ -312,5 +312,5 @@ loadMap=function(id,end){if(!/^ev_/.test(id)){EVLOCAL=null;if(EVLIVE&&EVLIVE.are
 // 상단 버튼 터치/클릭
 cv.addEventListener('pointerdown',e=>{
   if(G.state!=='play'||G.ui||!S)return;const rc=cv.getBoundingClientRect(),x=(e.clientX-rc.left)*W/rc.width,y=(e.clientY-rc.top)*H/rc.height;
-  for(const b of HUDB){if(b.admin&&!ISADMIN)continue;if(x>=b.x-6&&x<=b.x+b.w+6&&y>=b.y-8&&y<=b.y+b.h+12){e.preventDefault();initAudio();b.id==='adm'?adminMenu():b.id==='pq'?pqMenu():eventMenu();return}}
+  for(const b of HUDB){if(b.admin&&!ISADMIN)continue;if(x>=b.x-6&&x<=b.x+b.w+6&&y>=b.y-8&&y<=b.y+b.h+12){e.preventDefault();initAudio();b.id==='adm'?adminMenu():b.id==='guide'?guideMenu2():b.id==='pq'?pqMenu():eventMenu();return}}
 });

diff --git a/tests/test_bossloot.py b/tests/test_bossloot.py
@@ -1,0 +1,20 @@
+import asyncio, os
+from playwright.async_api import async_playwright
+async def main():
+    async with async_playwright() as p:
+        kw=dict(args=['--no-sandbox','--use-gl=swiftshader'])
+        if os.path.exists('/usr/bin/google-chrome'): kw['executable_path']='/usr/bin/google-chrome'
+        b=await p.chromium.launch(**kw); errs=[]
+        pg=await b.new_page(viewport={'width':960,'height':540}); pg.on('pageerror',lambda e: errs.append(str(e)))
+        await pg.goto('file://'+os.path.abspath('index.html')); await pg.wait_for_timeout(300)
+        print('boss',await pg.evaluate("""()=>{const g=__game;g.newGame('warrior');SAVE.lvl=20;g.goMap('boss1',true);const bo=S.boss;const ap=SAVE.apFree||0;bossFinish(bo);
+          return [bo.id,SAVE.inv.dhorn,(SAVE.apFree||0)-ap,G.clear.lines]}"""))
+        await pg.wait_for_timeout(100); await pg.screenshot(path='/tmp/bl_clear.png')
+        print('second',await pg.evaluate("""()=>{const g=__game;G.state='play';g.goMap('boss1',true);const ap=SAVE.apFree;bossFinish(S.boss);return [SAVE.inv.dhorn,SAVE.apFree-ap]}"""))
+        print('doc',await pg.evaluate("""()=>{const g=__game;G.state='play';G.clear=null;g.goMap('town',true);const n=S.L.npcs.find(n=>n.id==='bossdoc');talkNPC(n);G.dlg.opts[0].fn();const t=G.dlg.opts[0].t;const e0=SAVE.exp,c0=SAVE.coins;G.dlg.opts[0].fn();
+          const r=[t,SAVE.inv.dhorn,SAVE.coins-c0];closeUI();SAVE.inv.dhorn=5;SAVE.inv.vegbit=20;talkNPC(n);G.dlg.opts[1].fn();G.dlg.opts[0].fn();r.push(!!SAVE.ginv.g_bl_horn,SAVE.inv.dhorn,SAVE.inv.vegbit);return r}"""))
+        print('fieldboss fang',await pg.evaluate("""()=>{const g=__game;closeUI();g.goMap('h3',true);S.fbT=.01;g.step(1/60);g.step(1/60);const m=S.fb;const f=SAVE.inv.fang||0;killMob(m);return (SAVE.inv.fang||0)-f}"""))
+        await pg.evaluate("(()=>{const g=__game;g.goMap('town',true);G.banner.t=9;G.toasts.length=0;PARTY[0].x=3460;for(let i=0;i<20;i++)g.step(1/60)})()"); await pg.wait_for_timeout(200)
+        await pg.screenshot(path='/tmp/bl_town.png')
+        print(errs or 'NO ERRORS'); await b.close()
+asyncio.run(main())

diff --git a/tests/test_guide.py b/tests/test_guide.py
@@ -1,0 +1,16 @@
+import asyncio, os
+from playwright.async_api import async_playwright
+async def main():
+    async with async_playwright() as p:
+        kw=dict(args=['--no-sandbox','--use-gl=swiftshader'])
+        if os.path.exists('/usr/bin/google-chrome'): kw['executable_path']='/usr/bin/google-chrome'
+        b=await p.chromium.launch(**kw); errs=[]
+        pg=await b.new_page(viewport={'width':960,'height':540}); pg.on('pageerror',lambda e: errs.append(str(e)))
+        await pg.goto('file://'+os.path.abspath('index.html')); await pg.wait_for_timeout(300)
+        await pg.evaluate("()=>{const g=__game;g.newGame('archer');SAVE.lvl=33;SAVE.tier=1;SAVE.flags.leftHarbor=1;g.goMap('town',true);G.banner.t=9;G.toasts.length=0;for(let i=0;i<10;i++)g.step(1/60)}")
+        await pg.mouse.click(960-265,24); await pg.wait_for_timeout(200)
+        print(await pg.evaluate("[G.dlg&&G.dlg.name,(G.dlg.opts||[]).map(o=>o.t)]"))
+        await pg.screenshot(path='/tmp/guide.png')
+        print(await pg.evaluate("()=>{const c=SAVE.coins=5000;G.dlg.opts[0].fn();return [S.id||'fading',SAVE.coins]}"))
+        print(errs or 'NO ERRORS'); await b.close()
+asyncio.run(main())
